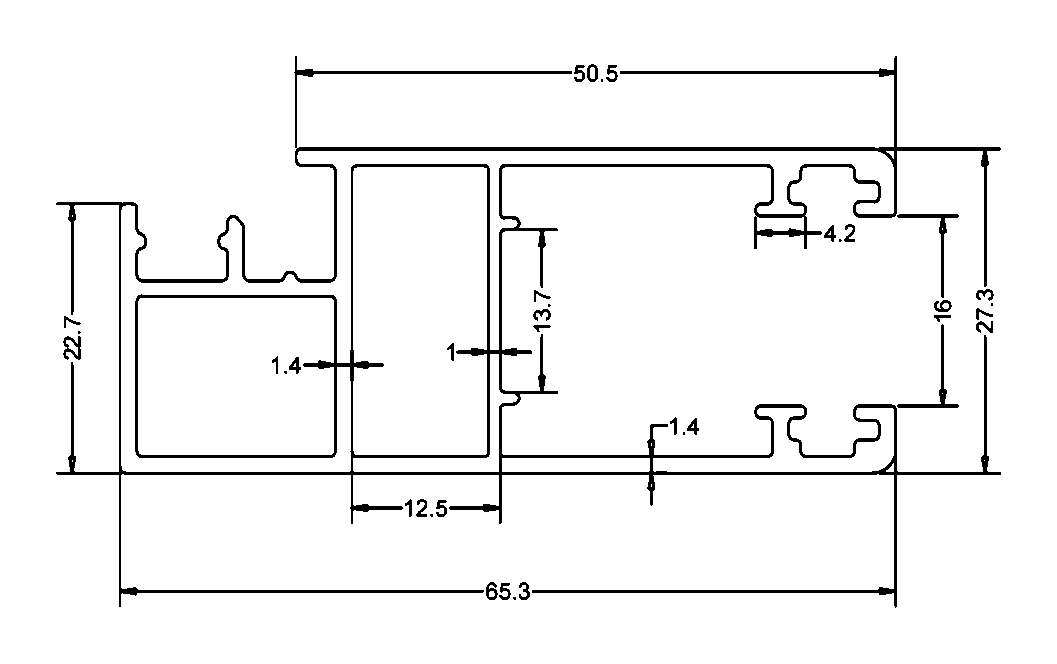
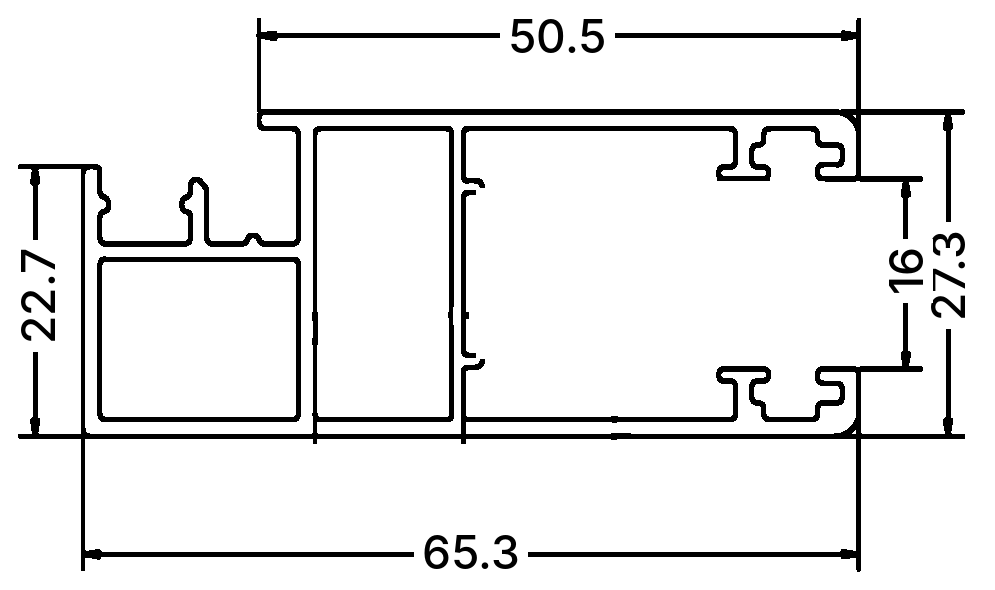
Domal mesh shutter drawing: bold lines, readable sizes
The mesh shutter profile was drawn in hairlines with seven small
internal dimensions, so at list size it looked broken and the numbers
could not be read. The walls are now drawn bold like the glass shutter,
the internal dimensions are left out, and the outer sizes (65.3, 50.5,
27.3, 22.7, 16) are set large. Drawings version and offline cache bumped
so phones fetch the new image.

Claude-Session: https://claude.ai/code/session_011PUPxMAAzzLueH72U7EBRP

Changed region(s): [[0.0, 0.0305, 0.997, 0.9763]]

diff --git a/components/section-profiles.tsx b/components/section-profiles.tsx
@@ -273,7 +273,7 @@ export function hasImage(sectionId: string): boolean {
 
 /** Raise whenever a drawing in /public/sections changes — phones keep the
  *  pictures offline, and a new version is a new URL they have not cached. */
-const DRAWINGS_VERSION = 8;
+const DRAWINGS_VERSION = 9;
 
 /** The picture file for a section. */
 export function imageSrc(sectionId: string): string {

diff --git a/public/sw.js b/public/sw.js
@@ -7,7 +7,7 @@
 // Bump on every change to /sections/: the old cache (and its stale
 // drawings) is deleted on activate. Drawing URLs also carry ?v=, so a new
 // drawing is a new URL and can never be answered from an old copy.
-const CACHE = "fabriq-v3";
+const CACHE = "fabriq-v4";
 
 self.addEventListener("install", () => self.skipWaiting());
 
